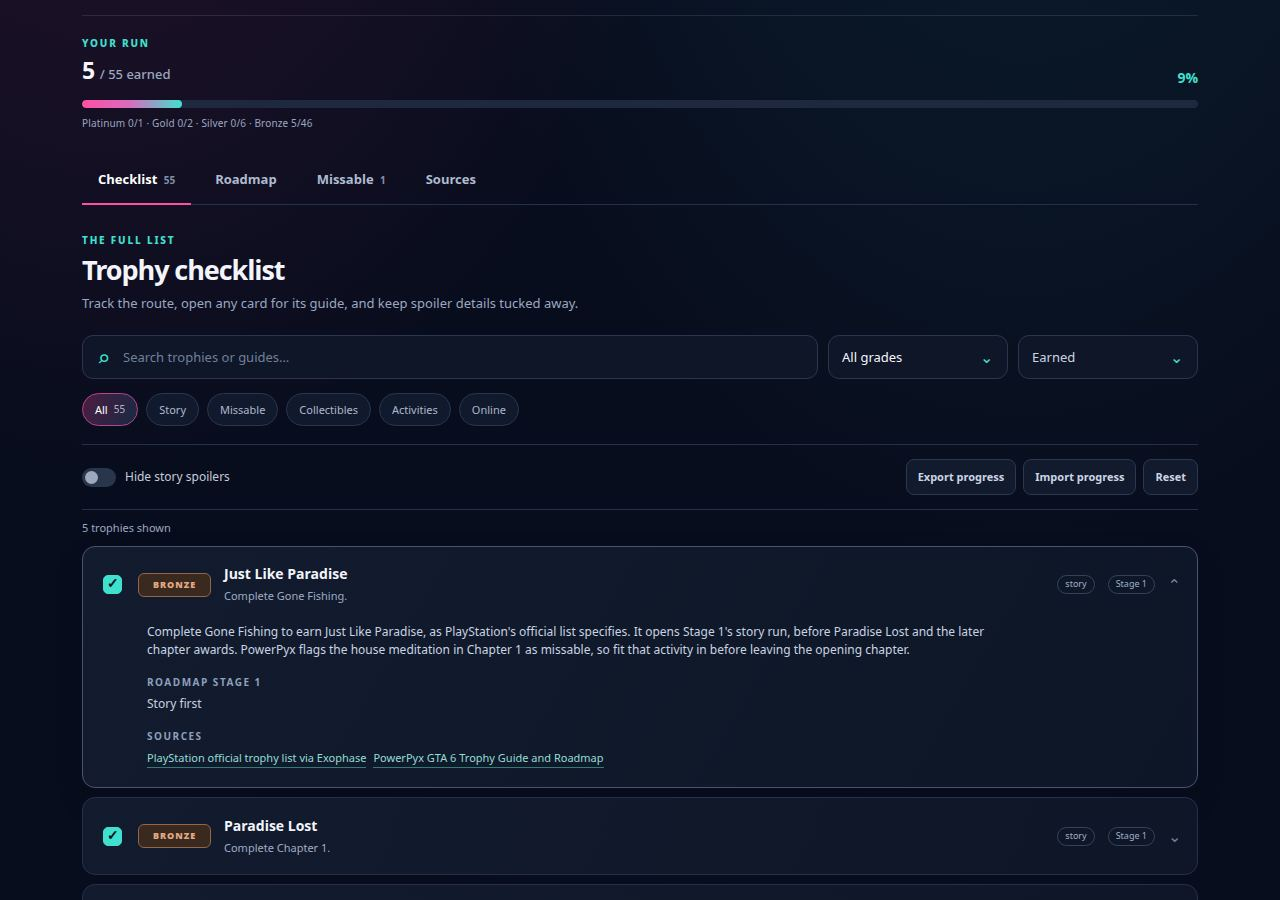
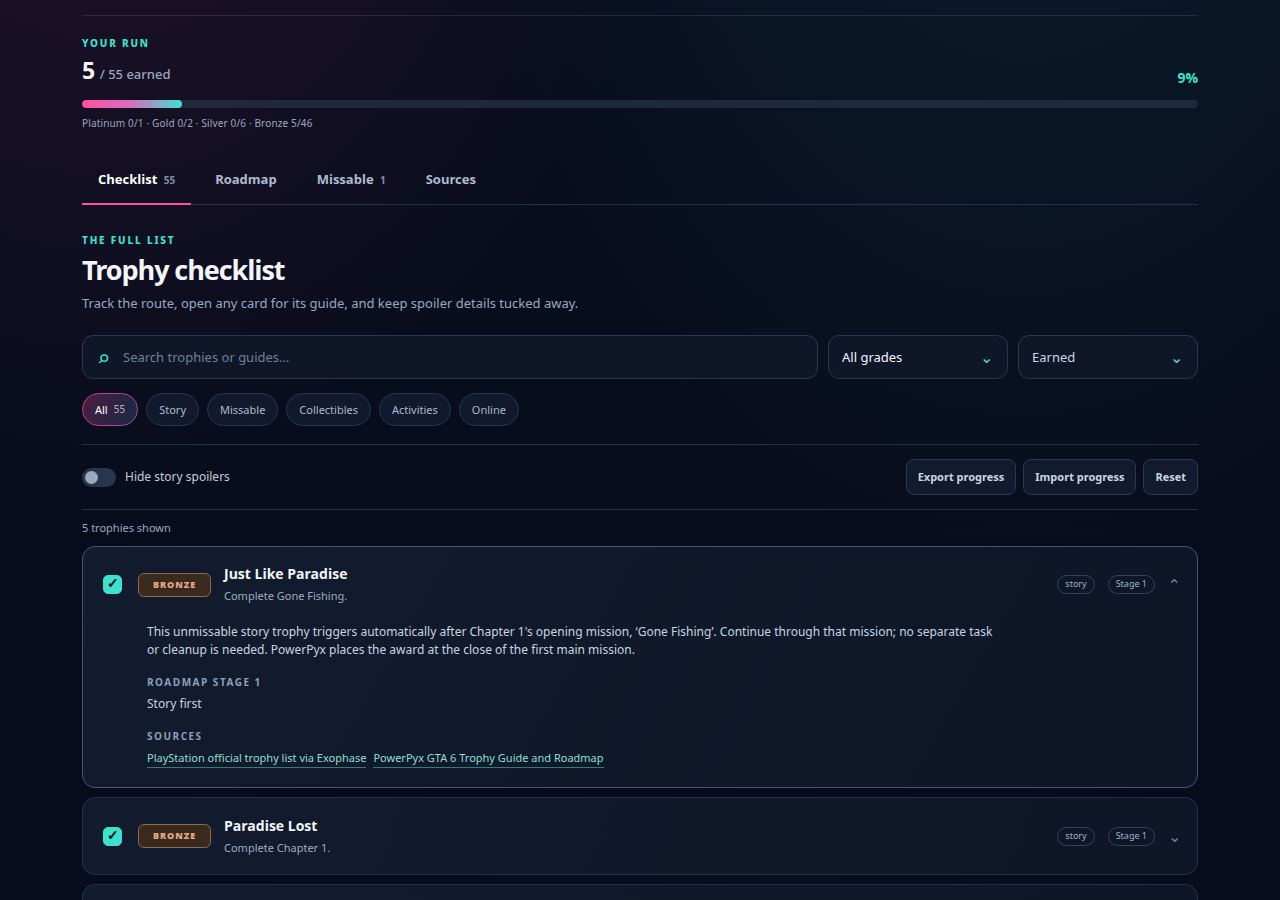
Round 3 build-out: all 55 guides enriched from cited PowerPyx specifics, source alignment, spoiler completeness

Changed region(s): [[0.125, 0.6844, 0.7812, 0.7467]]

diff --git a/app/app.js b/app/app.js
@@ -108,8 +108,9 @@ function matchesFilter(trophy) {
 }
 
 function matchesSearch(trophy) {
-  const text = [trophy.name, trophy.description, trophy.guide, trophy.kind, ...(trophy.tags || [])].join(' ').toLowerCase();
-  return text.includes(searchTerm);
+  const hiddenStory = hideSpoilers && trophy.kind === 'story' && !earnedIds.has(trophy.id);
+  const fields = hiddenStory ? [trophy.grade, trophy.kind, trophy.stage] : [trophy.name, trophy.description, trophy.guide, trophy.kind, ...(trophy.tags || [])];
+  return fields.join(' ').toLowerCase().includes(searchTerm);
 }
 
 function renderChecklist() {
@@ -136,7 +137,7 @@ function renderRoadmap() {
     : '<p class="next-up-complete">Every trophy is earned. The platinum is yours.</p>';
   const steps = trophyData.roadmap.map(step => {
     const stepTrophies = step.trophyIds.map(id => trophyData.trophies.find(trophy => trophy.id === id)).filter(Boolean);
-    const names = stepTrophies.map(trophy => trophy.name);
+    const names = stepTrophies.map(getTrophyName);
     const earnedCount = step.trophyIds.filter(id => earnedIds.has(id)).length;
     const focusBullets = step.step === 1
       ? ['Play Chapters 1–5 and their named missions', 'Meditate during Chapter 1 before leaving', 'Keep a manual save at each chapter start']

diff --git a/app/index.html b/app/index.html
@@ -20,7 +20,7 @@
       <section class="progress-panel" aria-label="Trophy progress">
         <div class="progress-copy"><div><p class="eyebrow">YOUR RUN</p><strong id="earned-count">0 <span>/ 55 earned</span></strong></div><span id="progress-percent">0%</span></div>
         <div class="progress-track" role="progressbar" aria-label="Trophies earned" aria-valuemin="0" aria-valuemax="55" aria-valuenow="0"><span id="progress-fill"></span></div>
-        <p id="grade-progress" class="grade-progress" aria-live="polite">Platinum 0/1 · Gold 0/6 · Silver 0/12 · Bronze 0/36</p>
+        <p id="grade-progress" class="grade-progress" aria-live="polite">Platinum 0/1 · Gold 0/2 · Silver 0/6 · Bronze 0/46</p>
       </section>
 
       <nav class="tabs" aria-label="Guide sections" role="tablist">
